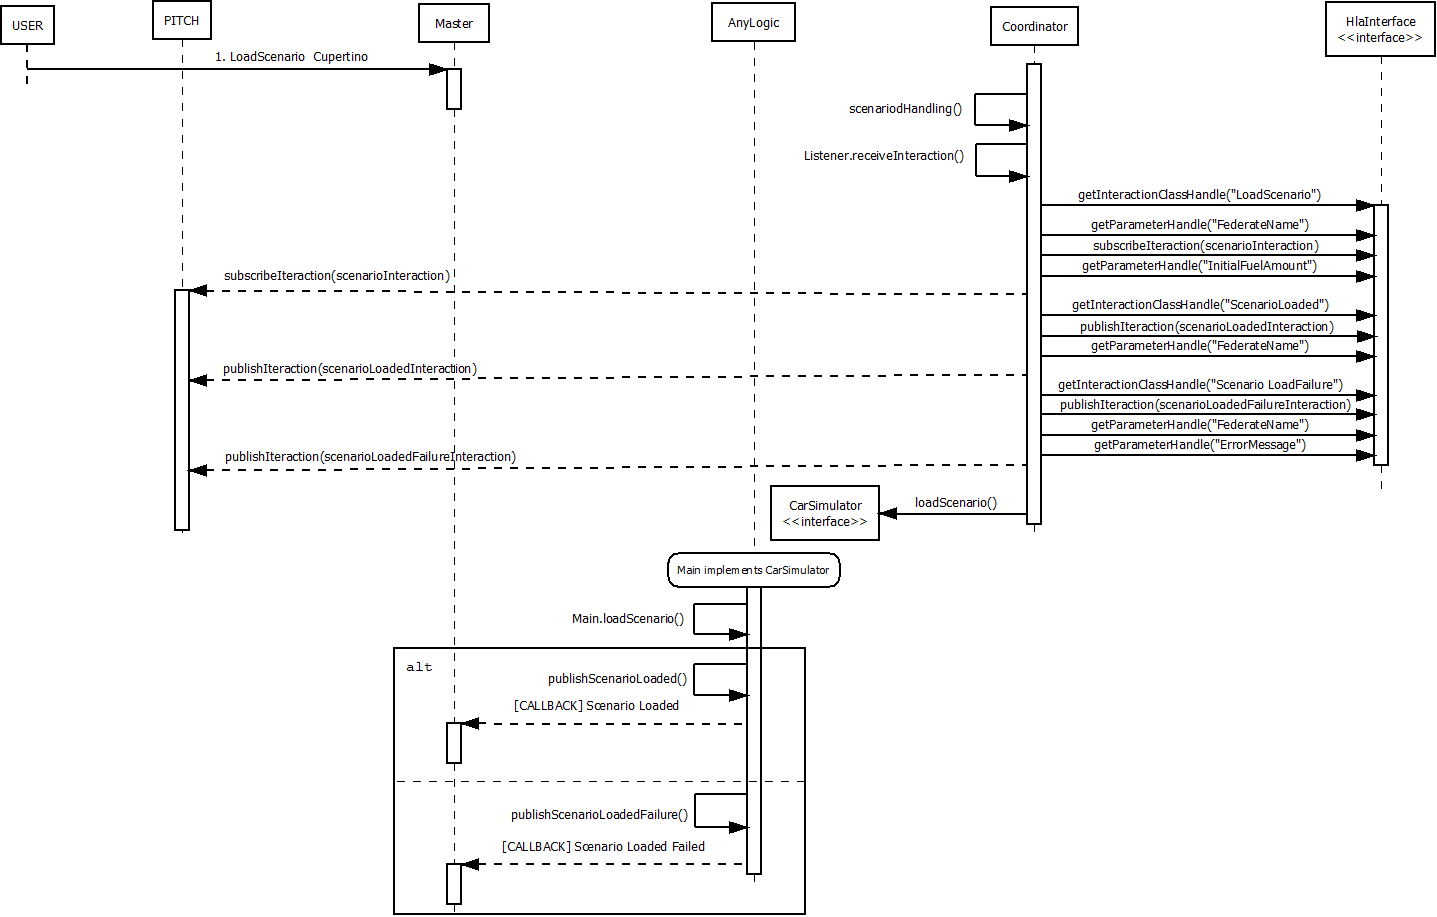
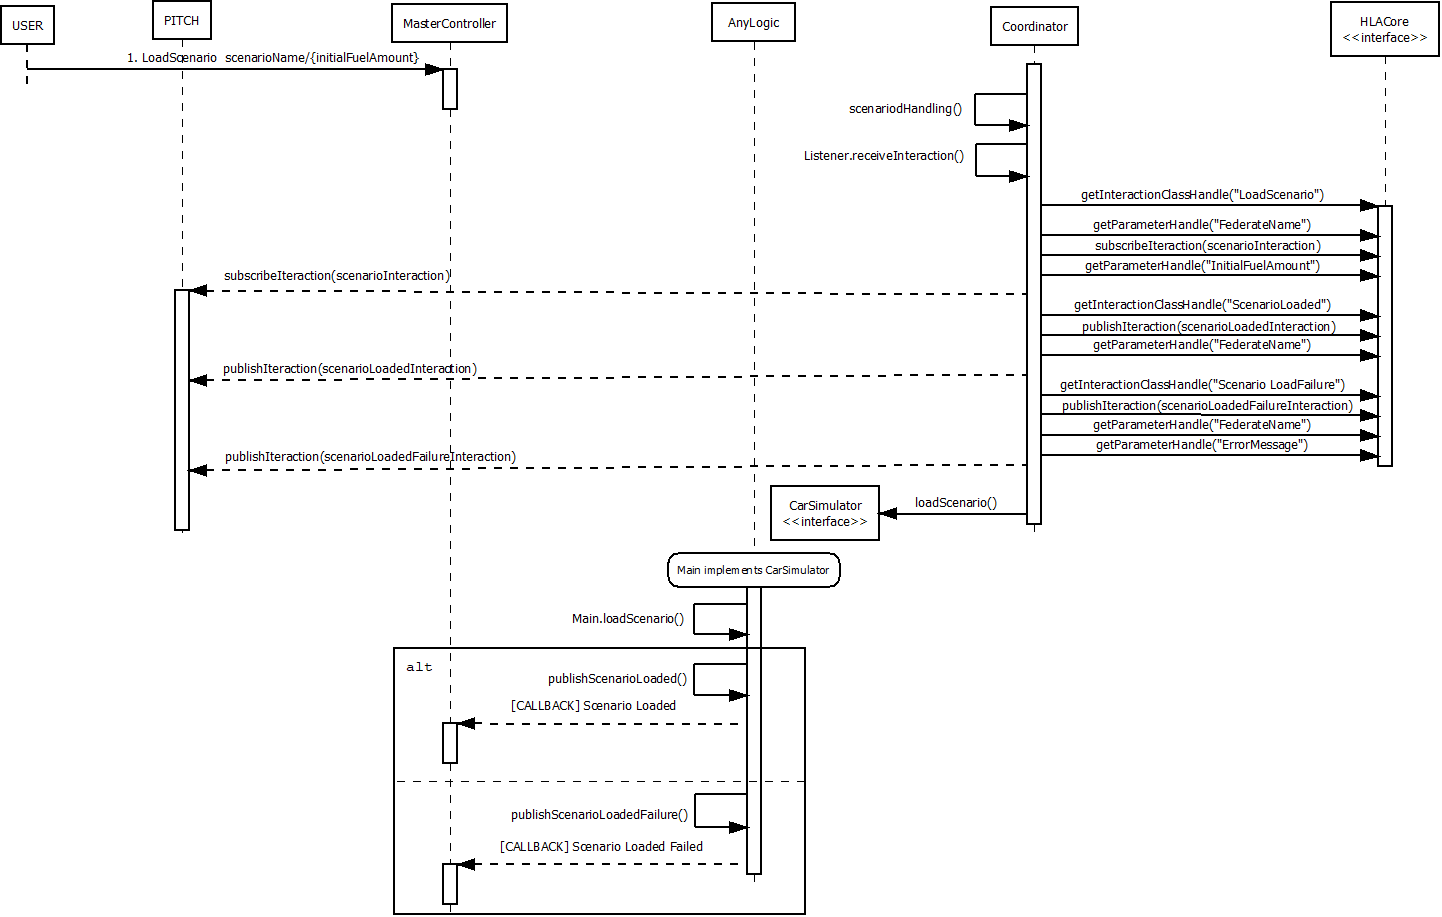
update class and sequence diagrams

diff --git a/app/java/HLACore/src/main/java/it/cl/hla/core/implementation/HlaCoreImpl.java b/app/java/HLACore/src/main/java/it/cl/hla/core/implementation/HlaCoreImpl.java
@@ -99,21 +99,6 @@ public class HlaCoreImpl extends NullFederateAmbassador implements HlaCore {
         public void start(String localSettingsDesignator, String federationName) throws RTIinternalError, ConnectionFailed, NotConnected {
             this.start(localSettingsDesignator, federationName, null);
         }
-         /*   RtiFactory rtiFactory = RtiFactoryFactory.getRtiFactory();
-            ambassador = rtiFactory.getRtiAmbassador();
-            coder = rtiFactory.getEncoderFactory();
-
-            try {
-                ambassador.connect(this, CallbackModel.HLA_IMMEDIATE, localSettingsDesignator);
-            } catch (AlreadyConnected ignored) {
-            } catch (UnsupportedCallbackModel e) {
-                throw new RTIinternalError("HlaInterfaceFailure", e);
-            } catch (InvalidLocalSettingsDesignator invalidLocalSettingsDesignator) {
-                invalidLocalSettingsDesignator.printStackTrace();
-            } catch (CallNotAllowedFromWithinCallback e) {
-                throw new RuntimeException(e);
-            }
-            }*/
 
         @Override
         public void join(String federateName, String federateType) {
